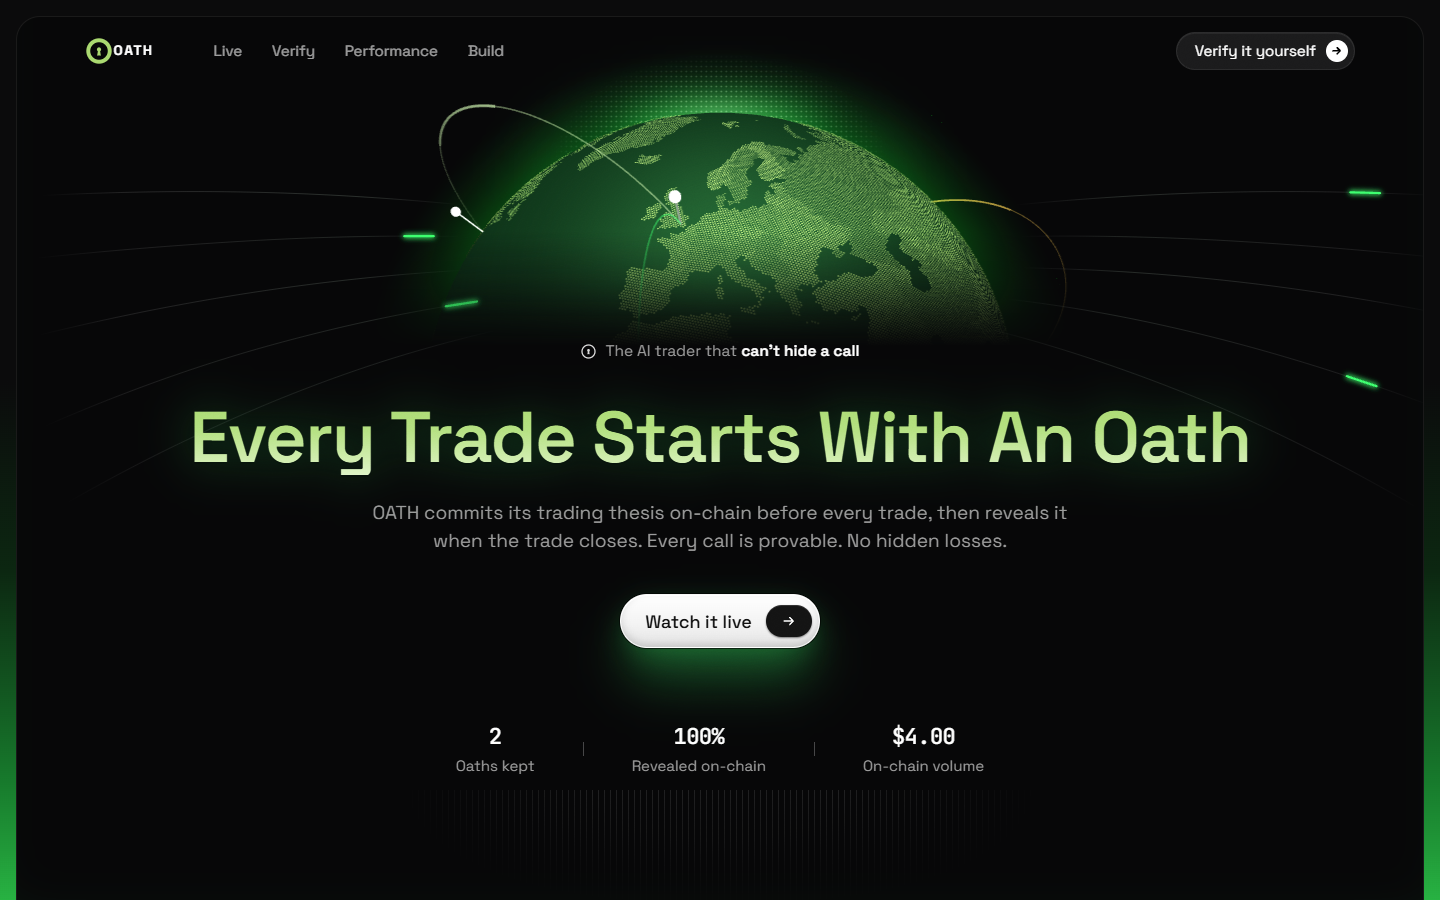
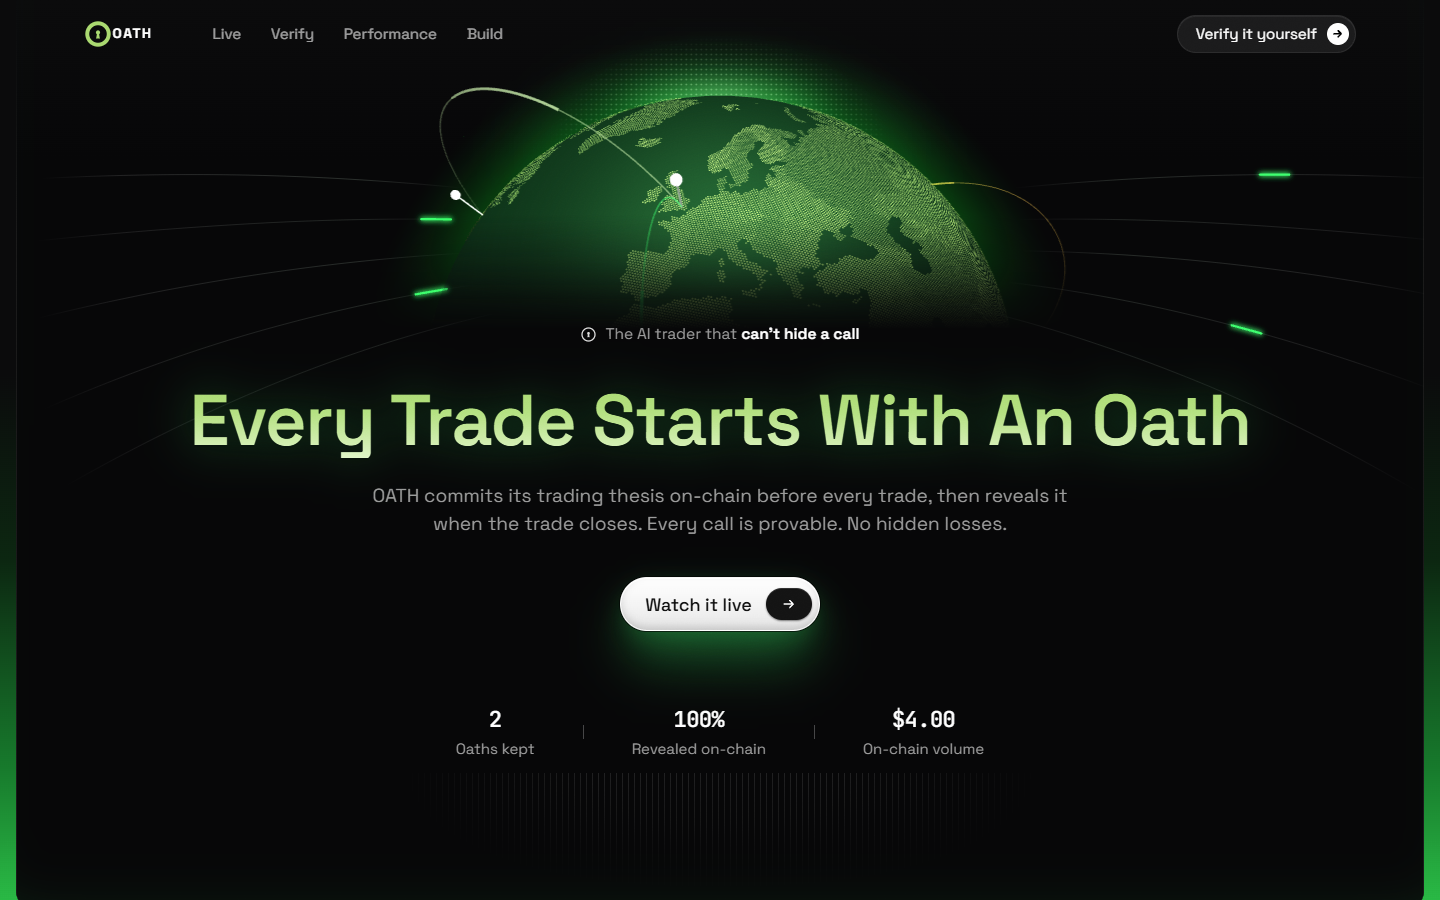
Hero: remove top gap; card flush with the top of the browser
No top margin/border/corners/edge; top blends into #0B0B0C; side borders fade in
below 240px. Green side/bottom glow unchanged.

diff --git a/web/app/page.tsx b/web/app/page.tsx
@@ -3,9 +3,16 @@ import { Nav } from "@/components/Nav";
 
 export default function Home() {
   return (
-    <main className="page-glow min-h-svh px-2 pb-4 pt-2 sm:px-4 sm:pb-[22px] sm:pt-4">
-      {/* Rounded dark card; the green light bleeds up from behind its bottom edge */}
-      <div className="grain relative mx-auto min-h-[calc(100svh-24px)] overflow-hidden rounded-[20px] border border-[#1a1a1a] bg-[#070708] shadow-[inset_0_-40px_60px_-50px_rgba(61,255,110,0.14)] sm:min-h-[calc(100svh-38px)] sm:rounded-[24px]">
+    <main className="page-glow min-h-svh px-2 pb-4 sm:px-4 sm:pb-[22px]">
+      {/* Dark card flush with the top of the browser (no top margin, border, corners or edge);
+          rounded only at the bottom, where the green light bleeds up from behind it. */}
+      <div
+        className="grain relative mx-auto min-h-[calc(100svh-16px)] overflow-hidden rounded-b-[20px] border-b border-[#1a1a1a] shadow-[inset_0_-40px_60px_-50px_rgba(61,255,110,0.14)] sm:min-h-[calc(100svh-22px)] sm:rounded-b-[24px]"
+        style={{ background: "linear-gradient(180deg, #0B0B0C 0px, #070708 160px)" }}
+      >
+        {/* side borders fade in below the fold line so nothing marks the top edge */}
+        <span aria-hidden="true" className="pointer-events-none absolute inset-y-0 left-0 w-px bg-[linear-gradient(180deg,transparent_0px,#1a1a1a_240px)]" />
+        <span aria-hidden="true" className="pointer-events-none absolute inset-y-0 right-0 w-px bg-[linear-gradient(180deg,transparent_0px,#1a1a1a_240px)]" />
         <Nav />
         <Hero />
       </div>
